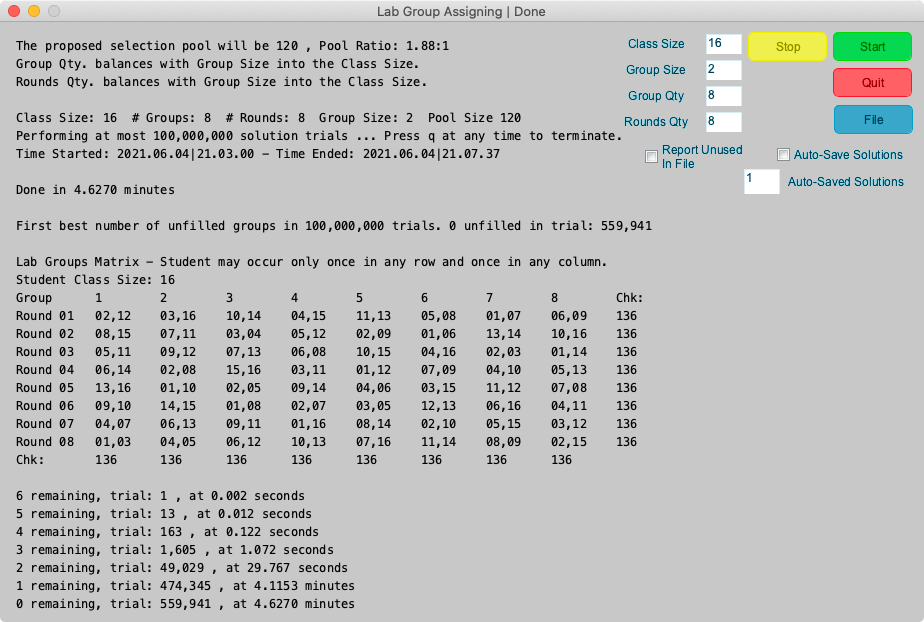
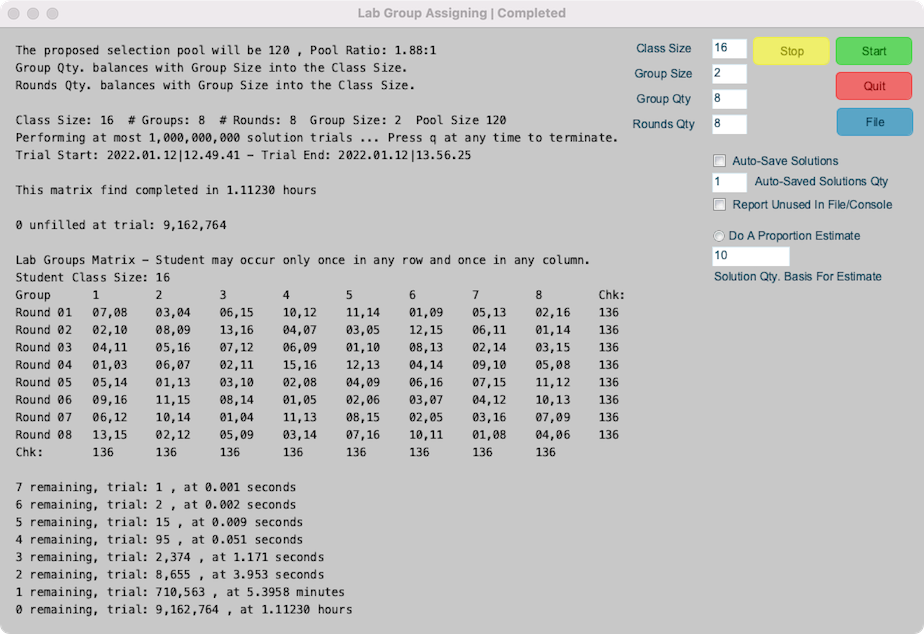
Issue as 1.07

diff --git a/README.md b/README.md
@@ -13,6 +13,8 @@
   * **Group Size** - The student grouping size. The matrix cells are the assigned student groups. The students are selected from the class, i.e. the selection pool. The integer numbers identify the students. For example the student group, "03,06,12", is a group consisting of student 03, student 06 and student 12.
   * **Auto Save Solutions** - A checkbox for running a series of solutions for the same conditions where each solution result is automatically saved to a text file.
   * **Auto Saved Solutions** - The number of solutions that will be run with the same conditions where each solution result is saved to text file.
+  * **Do A Proportion Estimate** - Perform a 95% confidence interval for the proportion of assignment solutions there are in all the possible assignment matrix permutations.
+  * **Solution Qty. Basis For Estimate** - The number of solutions to find in order to make the solution proportion estimate. The minimum value is 5.
 * The **Class Size** should be equal to the **Group Size** x (larger of **Group Qty** and **Rounds Qty**). Student selection will not be a balanced participation when **Group Qty** and **Rounds Qty** are not equal. The same applies when the **Class Size** is larger than the required number. **Chk** value variation indicates unbalanced participation.
 
 ## Example Screen - Solution Found
@@ -25,16 +27,20 @@
 
 ![Example Screen Run](./readme-images/LabGroupsAssigning-screen-terminated.png)
 
+## Example Screen Output - Proportion Estimate
+
+![Example Screen Run](./readme-images/LabGroupsAssigning-screen-proportion.png)
+
 ## Notes
 
 * The application window is re-sizable.
 * Execution time is pure luck for the lengthy tasks. For example the solution for the 8 x 8 x 2 shown above occurred under 5 minutes. This same task could take hours.
 * The **Chk:** values are row and column checksum values that are the sum of the assigned student id numbers. Properly assigned row and columns will have the same checksum.
-* This program continuously makes random lab group selections for each matrix value chosen from an ever decreasing pool of remaining possible lab group candidates. It records the most filled assignment matrix and tracks the least unfilled number score. New matrix build attempts start when the current matrix build develops an equal unfilled score. The displayed matrix is the last best assignment matrix build. Selection trials stop when the matrix is totally filled or after the number of solution trials is expired.
+* This program continuously makes random lab group selections for each matrix value chosen from an ever decreasing pool of remaining possible lab group candidates. It records the most filled assignment matrix and tracks the least unfilled number score. Matrix build attempts are abandoned when it develops an unfilled score equal to the best and therefore cannot be an improvement. The displayed matrix is the last best assignment matrix build. Selection trials stop when the matrix is totally filled or after the number of solution trials is expired.
 * Matrix values like --,--,-- indicate there was no valid lab group combination possible for that matrix position for the trial run.
 * Terminating a long running solution attempt and then restarting it gains nothing. It would be pure random luck that a restarted solution attempt can quickly arrive at a solution. The matrix displayed while running a solution attempt is only the first best solution so far. It is not the basis for any subsequent possible solution. It represents a random matrix guess that failed because it was impossible to fill the unfilled cells. For every unfilled cell you can check and see for yourself that there could not be a remaining group that could satisfy the selection criteria.
 * The time required to complete the assignment matrix is a function of the selection pool size. The selection pool size depends on the class size (**n**) and the group size (**k**) as **n!/k!\*(n-k)!** . The number of possible assignment matrices of size **gr** (group qty x rounds qty) that can be selected from the pool size **p** is **p!/gr!\*(p-gr)!** . That number can be enormous.
-* The number of valid solution matrices within the pool of possible assignment matrices is not known to this author but the number appears to be large enough to quickly find a valid solution at random from a pool of 3 billion possible for a 5x5 matrix using a 2 group size.
+* The number of valid solution matrices within the pool of possible assignment matrices is what the proportion estimate is about. The number appears to be large enough to quickly find a valid solution at random from a pool of 3 trillion possible for a 5x5 matrix using a 2 group size. The proportion estimate is around 0.003718 or about 11.7 billion solutions. 
 * Pressing the **q** key stops the process and outputs the current best solution. The **Stop** button does the same but it may not be as responsive as the **q** key press.
 
 ## File Button
@@ -51,4 +57,8 @@
 * A Prebuilt application file for Apple OSX is provided as a zip file in this repository at [/Releases/macosx](Releases/macosx/). It is also available in the releases section.
 * Prebuilt application files for Linux and Windows are not provided in this repository at this time. That may be in the future. They are easily built from the **Processing IDE** with the files in this repository. **LabGroupsAssigning** can be executed from within the **Processing IDE**. Those familiar with **Processing** would need no instructions other than the knowledge that the **G4P** GUI controls library needs to be installed. Those not familiar with **Processing** need to start here: **[Processing](https://www.processing.org)**.
 * A **Processing** application is a Java application. Therefore the Java run-time system is required to be installed or packaged within the application. As of this writing the option to package Java within the application is possible only with Apple OSX systems.
-* **Window Un-Minimizing (Unhide) on Apple OSX:** Select the running application's icon in the **Dock** to restore the minimized window. The exported **Processing** application for Apple OSX has a simple top menu that lacks **Window** controls used to restore a miminized window one might happen to minimize via the application's **Yellow** control dot. **Command Tab** switching to the application will not resize the minimized application window. This is normal behavior for OSX applications, but OSX applications have the top menu **Window** control where the OS places a restore option for all minimized child windows. As of this writing exported Processing 3 applications lack that control. 
+* **Window Un-Minimizing (Unhide) on Apple OSX:** Select the running application's icon in the **Dock** to restore the minimized window. The exported **Processing** application for Apple OSX has a simple top menu that lacks **Window** controls used to restore a minimized window one might happen to minimize via the application's **Yellow** control dot. **Command Tab** switching to the application will not resize the minimized application window. This is normal behavior for OSX applications, but OSX applications have the top menu **Window** control where the OS places a restore option for all minimized child windows. As of this writing exported Processing 3 applications lack that control.
+
+## Console Output
+* This application continuously writes to the console as it runs. The console output is similar to GUI output but captures more information in certain circumstances because the GUI writes over itself faster than what you can notice. The console scrolls instead. The proportion estimate improvement over sample trials is observable in the console. Console output is shown when running the application from a Terminal session. In Linux you run the application from a Terminal session, so you get to see it automatically. Starting the application from a Terminal session in Mac OSX is accomplished by running the LabGroupsAssigning file within a Terminal session. This file is at the folder Contents/MacOS within the MacOSX LabGroupAssigning application package.     
+
